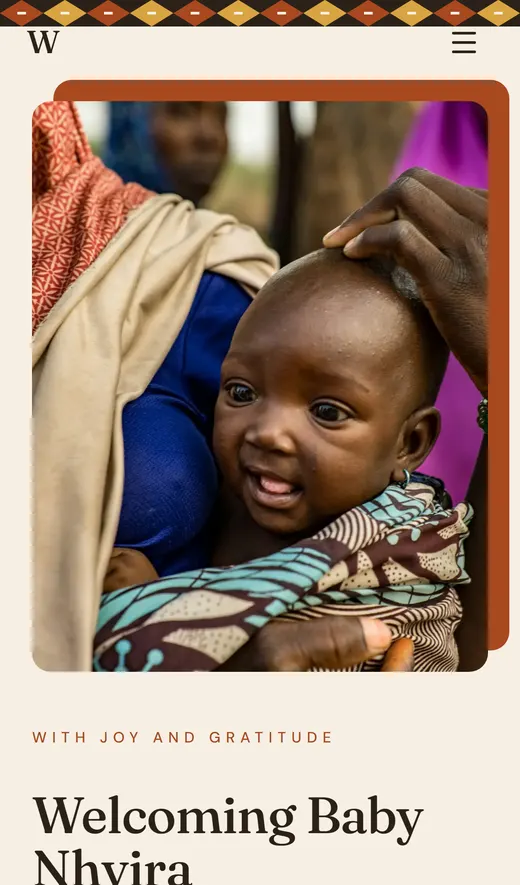
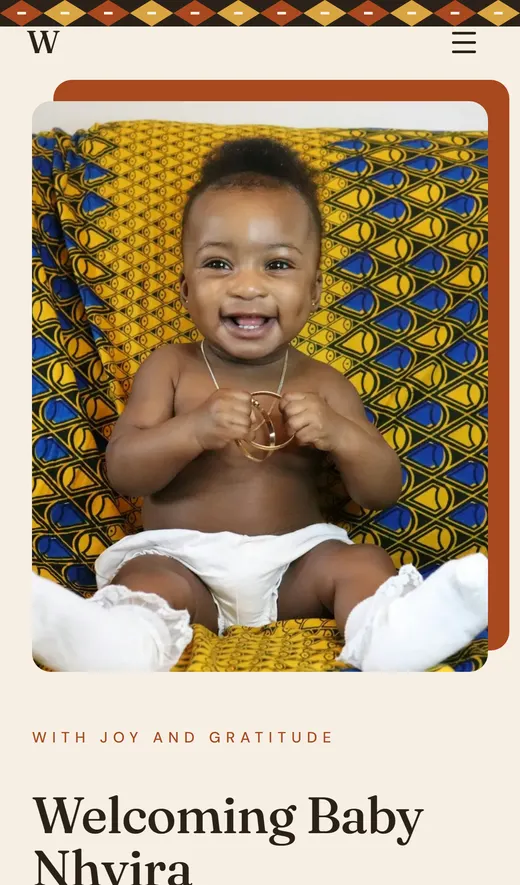
Replace the baby-in-fabric photo everywhere with a laughing baby on African print and a mother-and-baby portrait

diff --git a/src/app/(marketing)/page.tsx b/src/app/(marketing)/page.tsx
@@ -14,7 +14,7 @@ const OCCASIONS = [
   { kind: "birthday", theme: "confetti", label: "Birthdays", blurb: "Wishes wall, dress code and everyone's photos.", photo: "bday-cake-group", span: "" },
   { kind: "funeral", theme: "serene", label: "Celebrations of life", blurb: "Order of events, tributes and details, with care.", photo: "mem-candle-flowers", span: "" },
   { kind: "outing", theme: "adventure", label: "Outings & trips", blurb: "Itinerary, meeting point and what to bring.", photo: "trip-sunset-group", span: "md:col-span-2" },
-  { kind: "naming", theme: "little-blessings", label: "Naming ceremonies", blurb: "The name, its meaning and blessings.", photo: "baby-fabric", span: "" },
+  { kind: "naming", theme: "little-blessings", label: "Naming ceremonies", blurb: "The name, its meaning and blessings.", photo: "baby-laugh", span: "" },
   { kind: "graduation", theme: "modern-minimalist", label: "Graduations", blurb: "Celebrate the graduate with everyone.", photo: "grad-flowers", span: "" },
   { kind: "reunion", theme: "golden-hour", label: "Reunions", blurb: "Family and class reunions, before and after.", photo: "reunion-friends", span: "" },
   { kind: "opening", theme: "luxury-editorial", label: "Grand openings", blurb: "Shops, restaurants, offices: open your doors in style.", photo: "open-boutique", span: "" },

diff --git a/src/lib/samples.ts b/src/lib/samples.ts
@@ -44,9 +44,9 @@ const PHOTO_SETS: Record<OccasionKind, { hero: string; portraits: string[]; gall
     venues: ["trip-road", "trip-boat", "trip-boat-sunset", "trip-truck"],
   },
   naming: {
-    hero: "baby-fabric",
-    portraits: ["baby-cap", "family-mother"],
-    gallery: ["family-attire", "baby-bump", "reunion-table", "baby-cap", "flowers-table"],
+    hero: "baby-laugh",
+    portraits: ["baby-mother", "baby-cap"],
+    gallery: ["baby-mother", "family-attire", "baby-bump", "reunion-table", "family-mother", "flowers-table"],
     venues: ["venue-pavilion", "venue-tables"],
   },
   graduation: {
